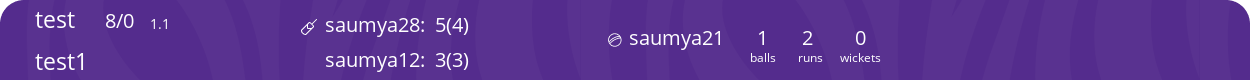
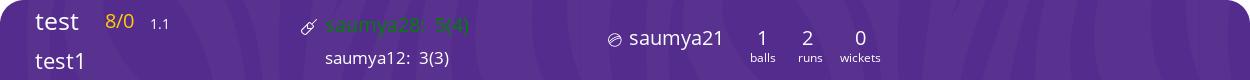
updated image

diff --git a/image_generator.py b/image_generator.py
@@ -22,19 +22,19 @@ def main():
     batting_team_text_width = len(score['batting_team']) * 10
     # Define score details with their specific coordinates and font sizes
     score_elements = [
-        {"text": f"{score['batting_team']}", "position": (35, 3), "font_size": 23},
-        {"text": f"{score['bowling_team']}", "position": (35, 45), "font_size": 23},
+        {"text": f"{score['batting_team']}", "position": (35, 3), "font_size": 25, "color": "white"},
+        {"text": f"{score['bowling_team']}", "position": (35, 45), "font_size": 22, "color": "white"},
         {"text": f"{score['score']}", "position": (35 + batting_team_text_width + 30, 6), "font_size": 20, "color": '#FFCB05'},
-        {"text": f"{score['overs_bowled']} ", "position": (150, 14), "font_size": 14},
-        {"text": f"{score['batter_one']}:  {score['batter_one_score']['runs']}({score['batter_one_score']['balls']})", "position": (325, 10), "font_size": 20},
-        {"text": f"{score['batter_two']}:  {score['batter_two_score']['runs']}({score['batter_two_score']['balls']})", "position": (325, 45), "font_size": 20},
-        {"text": f"{score['bowler']}", "position": (629, 23), "font_size": 20},
-        {"text": f"{score['bowler_figure']['ballsDelivered']}", "position": (757, 23), "font_size": 20},
-        {"text": f"balls", "position": (750, 49), "font_size": 12},
-        {"text": f"{score['bowler_figure']['runsGiven']}", "position": (802, 23), "font_size": 20},
-        {"text": f"runs", "position": (798, 49), "font_size": 12},
-        {"text": f"{score['bowler_figure']['wickets']}", "position": (855, 23), "font_size": 20},
-        {"text": f"wickets", "position": (840, 49), "font_size": 12},
+        {"text": f"{score['overs_bowled']} ", "position": (150, 14), "font_size": 14, "color": "#FFCB05"},
+        {"text": f"{score['batter_one']}:  {score['batter_one_score']['runs']}({score['batter_one_score']['balls']})", "position": (325, 10), "font_size": 20, "color": "#ACEB6D;"},
+        {"text": f"{score['batter_two']}:  {score['batter_two_score']['runs']}({score['batter_two_score']['balls']})", "position": (325, 45), "font_size": 17, "color": "white"},
+        {"text": f"{score['bowler']}", "position": (629, 23), "font_size": 20, "color": "#ACEB6D;"},
+        {"text": f"{score['bowler_figure']['ballsDelivered']}", "position": (757, 23), "font_size": 20, "color": "white"},
+        {"text": f"balls", "position": (750, 49), "font_size": 12, "color": "white"},
+        {"text": f"{score['bowler_figure']['runsGiven']}", "position": (802, 23), "font_size": 20, "color": "white"},
+        {"text": f"runs", "position": (798, 49), "font_size": 12, "color": "white"},
+        {"text": f"{score['bowler_figure']['wickets']}", "position": (855, 23), "font_size": 20, "color": "white"},
+        {"text": f"wickets", "position": (840, 49), "font_size": 12, "color": "white"},
     ]
 
     # Loop through score elements and add each to the image
@@ -42,8 +42,8 @@ def main():
         # Adjust font size if specified
         font = ImageFont.truetype(font_path, element["font_size"]) if font_path else ImageFont.load_default()
         
-        # Add the text to the image at the specified position
-        draw.text(element["position"], element["text"], font=font, fill="white")
+        # Add the text to the image at the specified position with the specified color
+        draw.text(element["position"], element["text"], font=font, fill=element["color"])
 
     # Save the modified image with match_id as the filename
     img.save(f'{match_id}.png')

diff --git a/server.py b/server.py
@@ -28,7 +28,7 @@ def stream_to_youtube(stream_name, youtube_url, stop_event):
             'ffmpeg',
             '-i', input_url,
             '-i', overlay_image,
-            '-filter_complex', '[0:v]transpose=2[v];[v][1:v]overlay=10:10',
+            '-filter_complex', '[0:v]transpose=2[v];[v][1:v]overlay=335:990',
             '-c:v', 'libx264',
             '-c:a', 'aac',
             '-strict', 'experimental',
